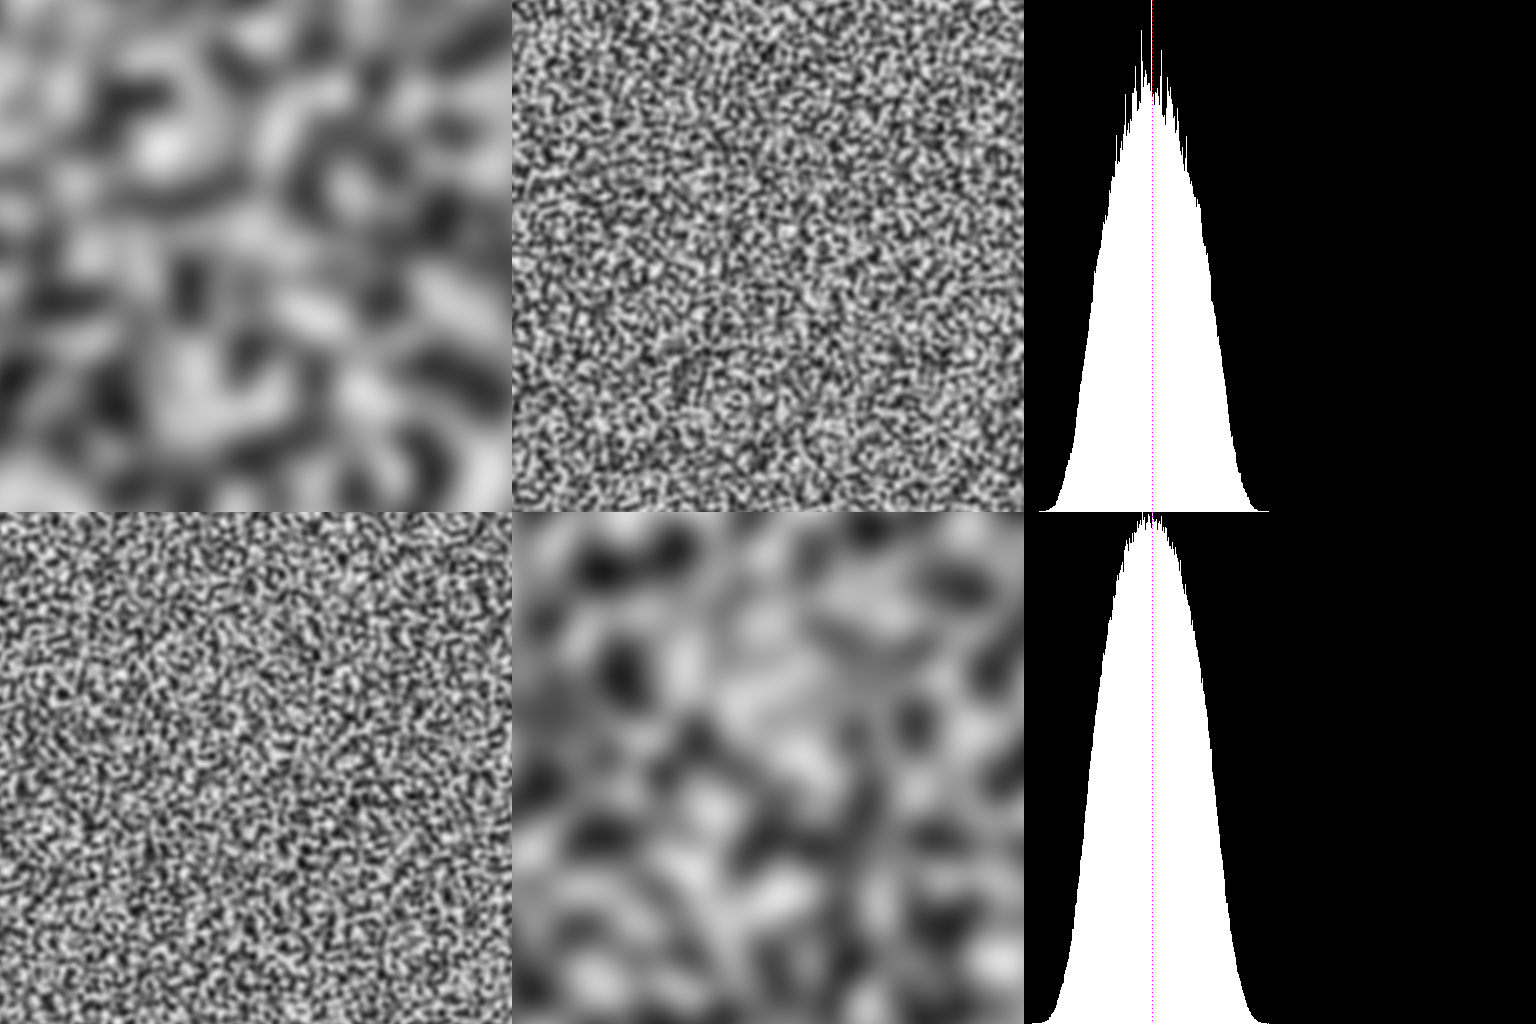
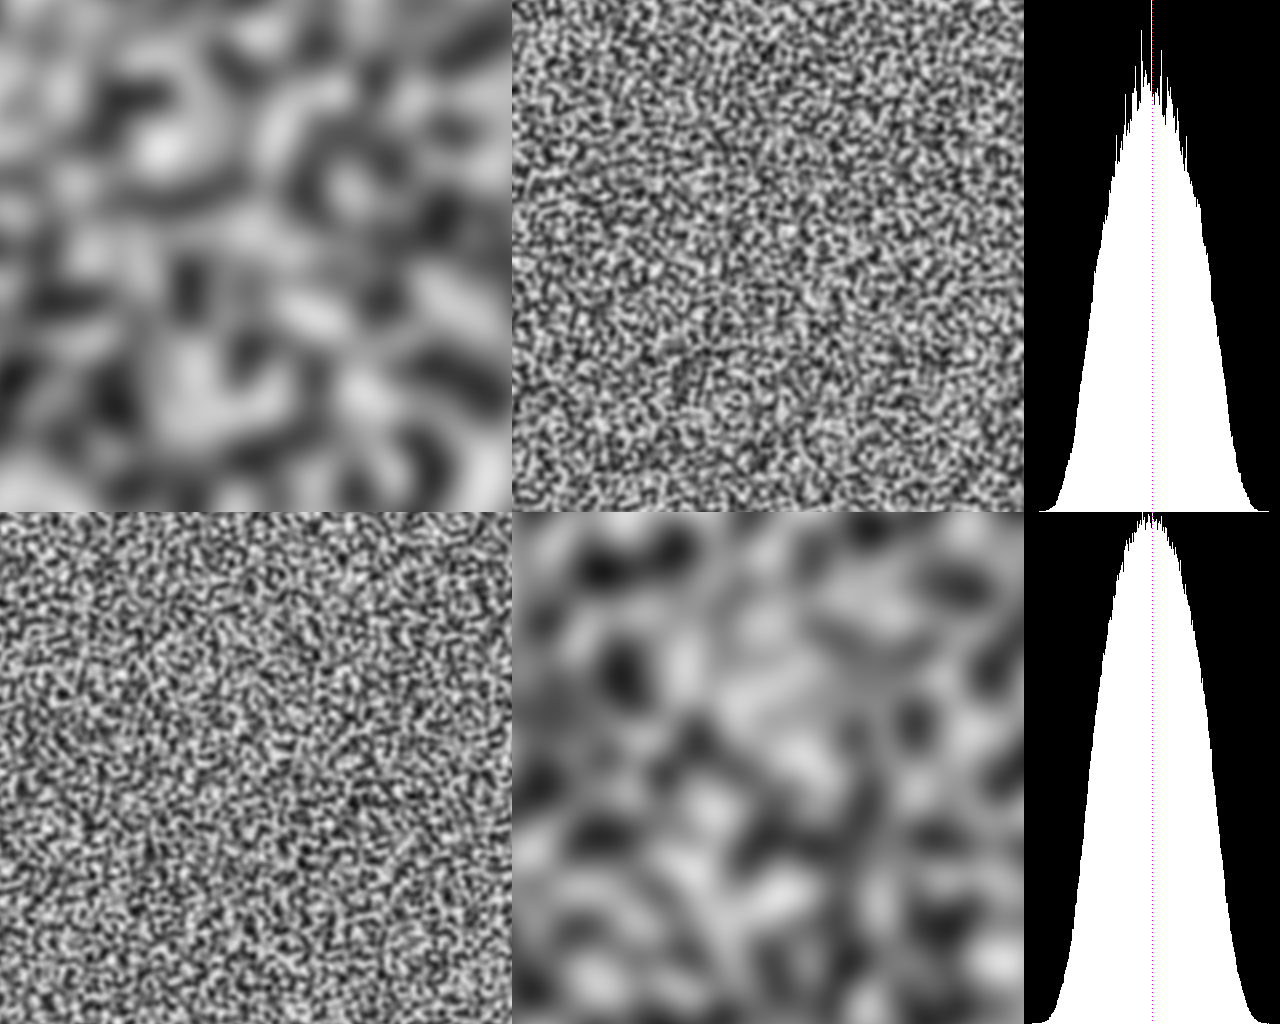
Thinner histogram

diff --git a/index.js b/index.js
@@ -111,7 +111,7 @@ function testNoiseGenerator(name, gen, mul, add) {
   // Generate a test image for verification
   let w = 512;
   let h = 512;
-  let stride = w * 3;
+  let stride = w * 2.5;
   let pt = new Float32Array(3);
   let png = new PNG({ width: stride, height: h*2, colorType: 6 });
   for (let idx=0; idx < png.data.length;) {
